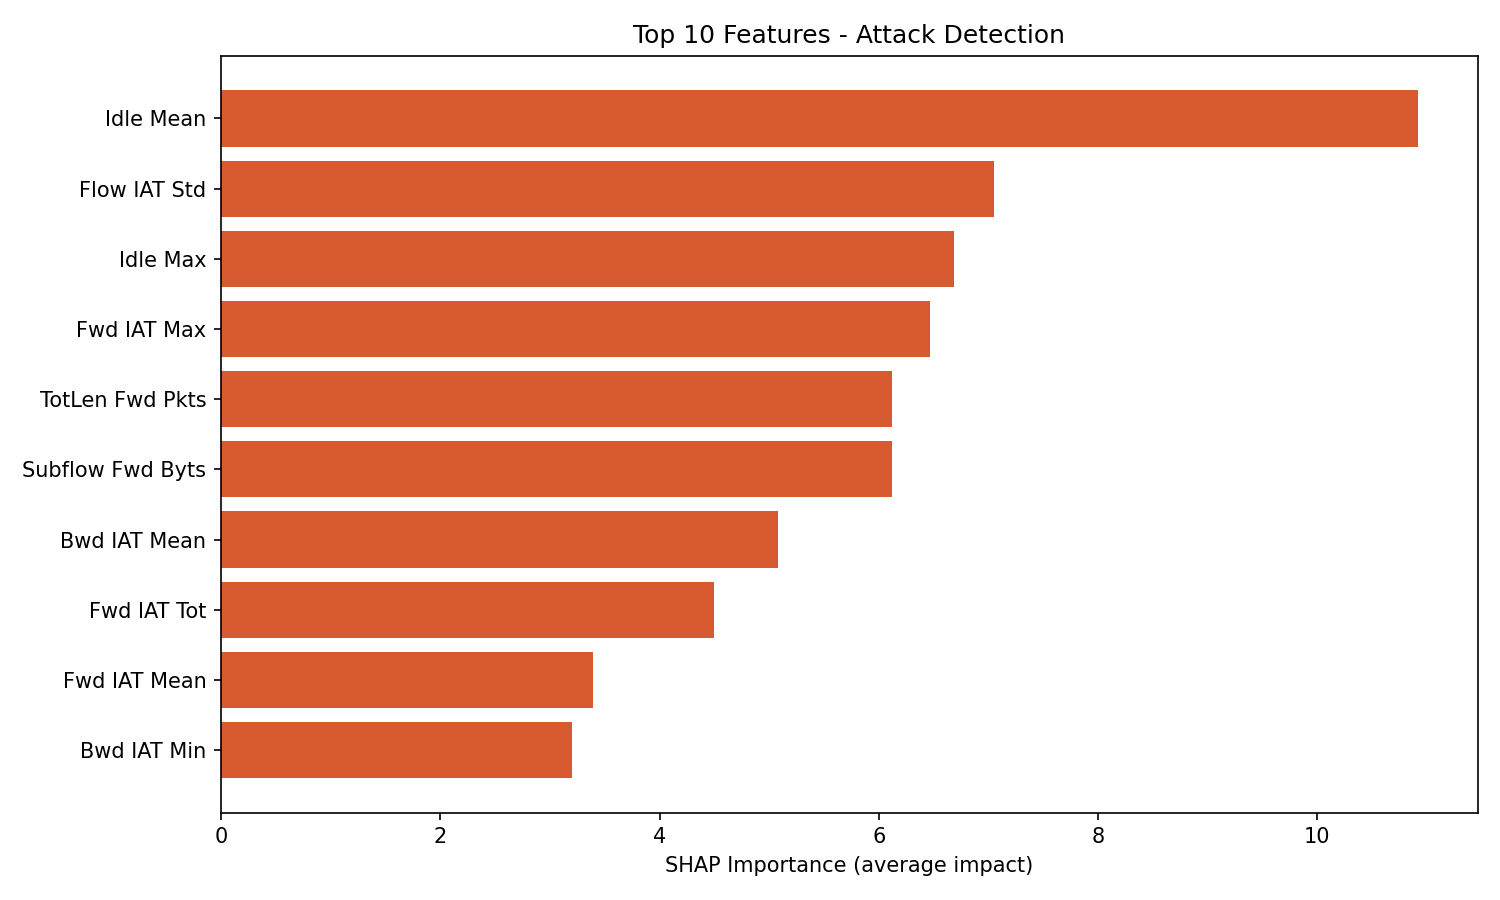
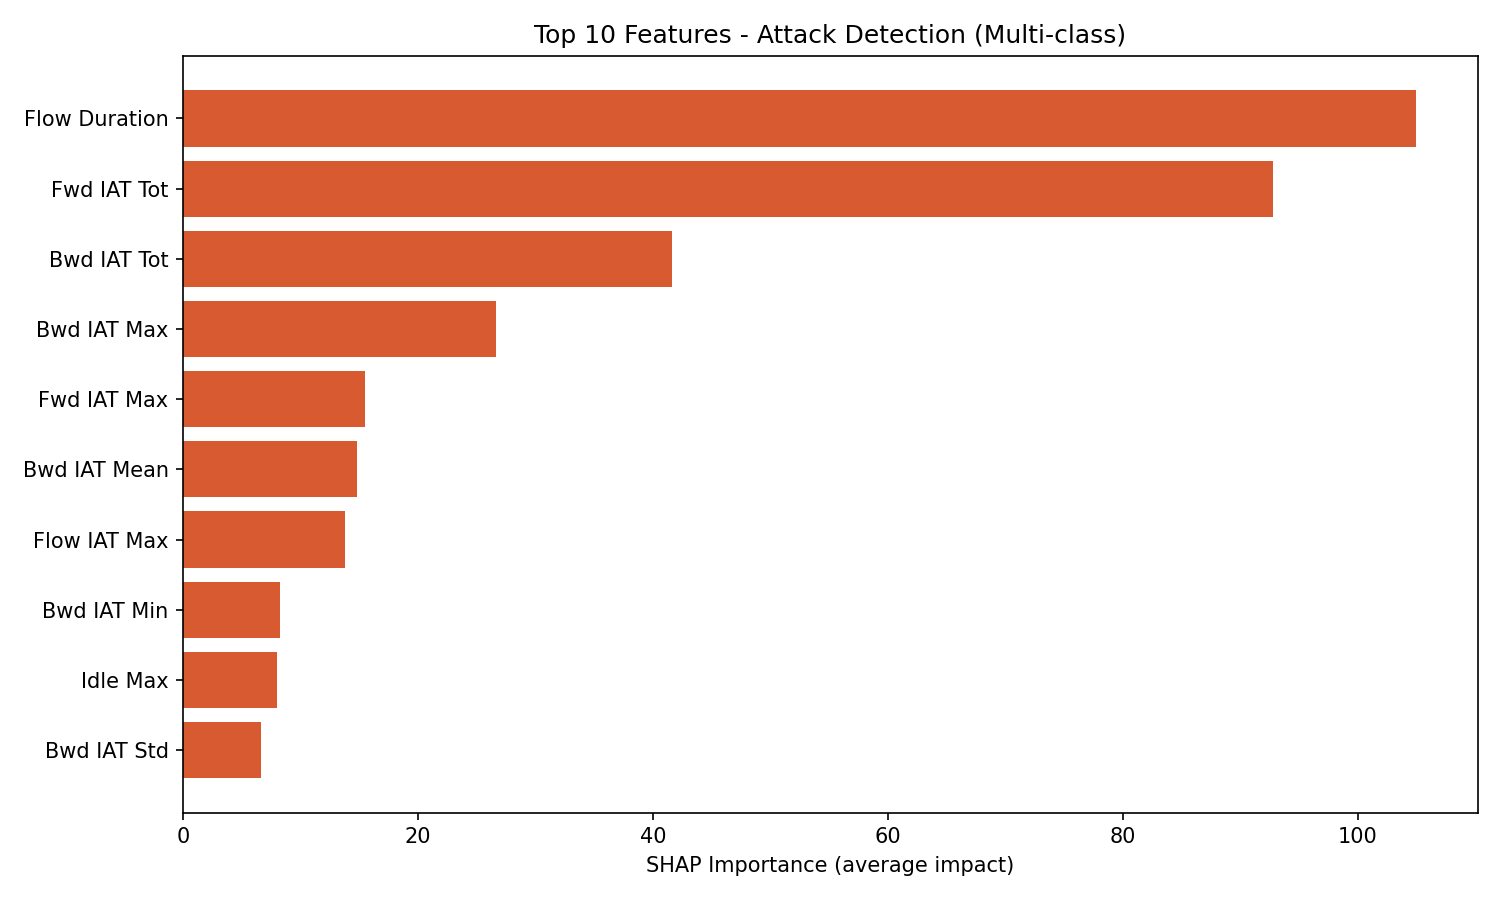
wrapped code in main guard, SHAP now on multi-class model

diff --git a/backend/models/baseline_model.py b/backend/models/baseline_model.py
@@ -7,65 +7,74 @@ from sklearn.preprocessing import LabelEncoder
 import shap
 import matplotlib.pyplot as plt
 
-dataset_path = os.path.join("..", "sample_dataset", "network_traffic_sample.csv")
-df = pd.read_csv(dataset_path)
 
-print("Rows:", len(df))
-print("Label distribution:")
-print(df["Label"].value_counts())
+if __name__ == "__main__":
+    dataset_path = os.path.join("..", "sample_dataset", "network_traffic_sample.csv")
+    df = pd.read_csv(dataset_path)
 
-X = df.select_dtypes(include=["number"])
-y_raw = df["Label"]
+    print("Rows:", len(df))
+    print("Label distribution:")
+    print(df["Label"].value_counts())
 
-label_encoder = LabelEncoder()
-y = label_encoder.fit_transform(y_raw)
+    X = df.select_dtypes(include=["number"])
+    y_raw = df["Label"]
 
-X = X.replace([float("inf"), float("-inf")], 0)
-X = X.fillna(0)
+    label_encoder = LabelEncoder()
+    y = label_encoder.fit_transform(y_raw)
 
-X_train, X_test, y_train, y_test = train_test_split(X, y, test_size=0.2, random_state=42)
+    X = X.replace([float("inf"), float("-inf")], 0)
+    X = X.fillna(0)
 
-model = LogisticRegression(max_iter=1000)
-model.fit(X_train, y_train)
-print("Accuracy:", model.score(X_test, y_test))
+    X_train, X_test, y_train, y_test = train_test_split(X, y, test_size=0.2, random_state=42)
 
-joblib.dump(model, "model.pkl")
-joblib.dump(label_encoder, "label_encoder.pkl")
-joblib.dump(X.columns.tolist(), "feature_columns.pkl")
-print("Saved: model.pkl, label_encoder.pkl, feature_columns.pkl")
+    model = LogisticRegression(max_iter=1000)
+    model.fit(X_train, y_train)
+    print("Accuracy:", model.score(X_test, y_test))
+
+    joblib.dump(model, "model.pkl")
+    joblib.dump(label_encoder, "label_encoder.pkl")
+    joblib.dump(X.columns.tolist(), "feature_columns.pkl")
+    print("Saved: model.pkl, label_encoder.pkl, feature_columns.pkl")
+
+    explainer = shap.Explainer(model, X_train.sample(min(100, len(X_train)), random_state=42))
+    shap_values = explainer(X_test.sample(min(50, len(X_test)), random_state=42))
+
+    print("SHAP values shape:", shap_values.values.shape)
+
+    if len(shap_values.values.shape) == 3:
+        importance_scores = abs(shap_values.values).mean(axis=(0, 2))
+    else:
+        importance_scores = abs(shap_values.values).mean(axis=0)
+
+    importance = pd.DataFrame({
+        "feature": X.columns,
+        "importance": importance_scores
+    }).sort_values("importance", ascending=False)
+    print("Top 5 important features:")
+    print(importance.head())
+
+    top_features = importance.head(10)
+    plt.figure(figsize=(10, 6))
+    plt.barh(top_features["feature"], top_features["importance"], color="#d85a30")
+    plt.xlabel("SHAP Importance (average impact)")
+    plt.title("Top 10 Features - Attack Detection (Multi-class)")
+    plt.gca().invert_yaxis()
+    plt.tight_layout()
+    plt.savefig("shap_importance_chart.png", dpi=150)
+    print("Chart saved as shap_importance_chart.png")
 
 
 def predict(input_df):
-    input_df = input_df[X.columns]
+    """
+    Member 4 isko call karega.
+    input_df: pandas DataFrame jisme wahi feature columns hon jo training mein use hue the.
+    """
+    import joblib as _joblib
+    _model = _joblib.load(os.path.join(os.path.dirname(__file__), "model.pkl"))
+    _encoder = _joblib.load(os.path.join(os.path.dirname(__file__), "label_encoder.pkl"))
+    _cols = _joblib.load(os.path.join(os.path.dirname(__file__), "feature_columns.pkl"))
+    input_df = input_df[_cols]
     input_df = input_df.replace([float("inf"), float("-inf")], 0).fillna(0)
-    pred_encoded = model.predict(input_df)
-    pred_label = label_encoder.inverse_transform(pred_encoded)
+    pred_encoded = _model.predict(input_df)
+    pred_label = _encoder.inverse_transform(pred_encoded)
     return pred_label
-
-
-df["Label_binary"] = df["Label"].apply(lambda x: 0 if str(x).strip() == "Benign" else 1)
-X_train_bin, X_test_bin, y_train_bin, y_test_bin = train_test_split(
-    X, df["Label_binary"], test_size=0.2, random_state=42
-)
-binary_model = LogisticRegression(max_iter=1000)
-binary_model.fit(X_train_bin, y_train_bin)
-
-explainer = shap.Explainer(binary_model, X_train_bin.sample(min(100, len(X_train_bin)), random_state=42))
-shap_values = explainer(X_test_bin.sample(min(50, len(X_test_bin)), random_state=42))
-
-importance = pd.DataFrame({
-    "feature": X.columns,
-    "importance": abs(shap_values.values).mean(axis=0)
-}).sort_values("importance", ascending=False)
-print("Top 5 important features:")
-print(importance.head())
-
-top_features = importance.head(10)
-plt.figure(figsize=(10, 6))
-plt.barh(top_features["feature"], top_features["importance"], color="#d85a30")
-plt.xlabel("SHAP Importance (average impact)")
-plt.title("Top 10 Features - Attack Detection")
-plt.gca().invert_yaxis()
-plt.tight_layout()
-plt.savefig("shap_importance_chart.png", dpi=150)
-print("Chart saved as shap_importance_chart.png")
